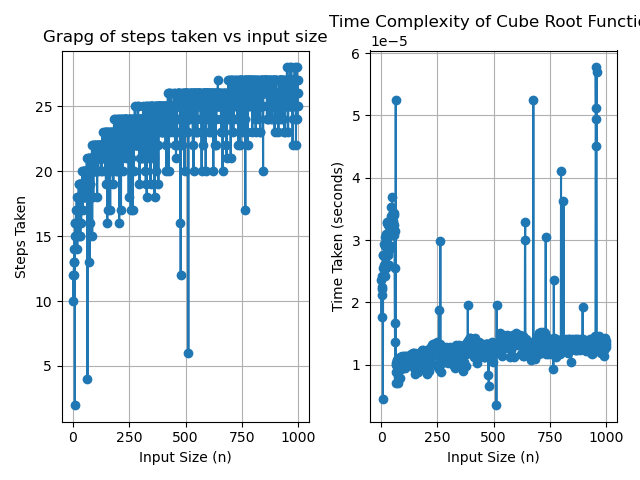
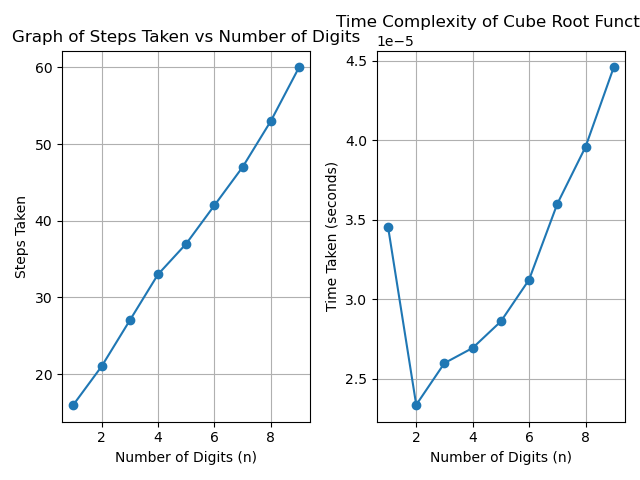
Enhance primality and cube root algorithms with step counting and performance measurement

diff --git a/day5/cube_root/main.py b/day5/cube_root/main.py
@@ -1,59 +1,63 @@
-# day5/cube_root/cube_root.py
+# day5/cube_root/main.py
 
 import time
+import random
 import matplotlib.pyplot as plt
 
 def cube_root(n):
-    low = 0 # lowest number of the range
-    high = n # highest number of the range
-    if n < 0: # deal with negative case
-        low, high = n , 0 # switch the high and low
-    epsilon = 1e-3 # minimum allowed deviation
-    count = 0 # number of steps taken
+    low = 0  # lowest number of the range
+    high = n  # highest number of the range
+    if n < 0:  # deal with negative case
+        low, high = n, 0  # switch the high and low
+    epsilon = 1e-3  # minimum allowed deviation
+    count = 0  # number of steps taken
 
     # Binary search for cube root
     while True:
-        count+=1
-        mid = (low + high) / 2 # midpoint of the range
-        mid_cubed = mid ** 3 # cube of the midpoint
+        count += 1
+        mid = (low + high) / 2  # midpoint of the range
+        mid_cubed = mid ** 3  # cube of the midpoint
 
-        if abs(mid_cubed - n) < epsilon: # check if the deviation of the cube is within the allowed 
+        if abs(mid_cubed - n) < epsilon:  # check if the deviation of the cube is within the allowed
             break
-        elif mid_cubed < n: # check if guessed answer is less the proper answer
-            low = mid # assign the new low to be the midpoint
-        else: #  check if guessed answer is greater the proper answer
-            high = mid # assign the new hign to be the midpoint
-    return count # return the number of steps
+        elif mid_cubed < n:  # check if guessed answer is less than the proper answer
+            low = mid  # assign the new low to be the midpoint
+        else:  # check if guessed answer is greater than the proper answer
+            high = mid  # assign the new high to be the midpoint
+    return count  # return the number of steps
 
-def measure_step_time(n): # return the steps and time taken to find the cube root
+def measure_step_time(n):  # return the steps and time taken to find the cube root
     start_time = time.time()
     step = cube_root(n)
     end_time = time.time()
     return step, end_time - start_time
 
 
-   
 if __name__ == "__main__":
 
-    input_sizes = [i for i in range(1, 1000)] # input sizes from 1 to 1000
+    max_digits = 9  # You can set this to any maximum number of digits
+    input_sizes = []
     steps, times = [], []
-    for i in range(1, 1000):
-        steps.append(measure_step_time(i)[0]) # measure the steps taken
-        times.append(measure_step_time(i)[1]) # measure the time taken
 
+    for digits in range(1, max_digits + 1):  # Loop through different number of digits
+        number = 10**digits  # Generate random number with 'digits' digits
+        step, time_taken = measure_step_time(number)
+        input_sizes.append(digits)  # Record the number of digits
+        steps.append(step)  # Measure the steps taken
+        times.append(time_taken)  # Measure the time taken
 
     # Plotting the result
     plt.subplot(1, 2, 1)
     plt.plot(input_sizes, steps, marker='o')
-    plt.xlabel('Input Size (n)')
+    plt.xlabel('Number of Digits (n)')
     plt.ylabel('Steps Taken')
-    plt.title('Grapg of steps taken vs input size')
+    plt.title('Graph of Steps Taken vs Number of Digits')
     plt.grid(True)
 
     # Plotting the time complexity
     plt.subplot(1, 2, 2)
     plt.plot(input_sizes, times, label='Time Complexity O(log n)', marker='o')
-    plt.xlabel('Input Size (n)')
+    plt.xlabel('Number of Digits (n)')
     plt.ylabel('Time Taken (seconds)')
     plt.title('Time Complexity of Cube Root Function')
     plt.grid(True)

diff --git a/day5/primality/main.py b/day5/primality/main.py
@@ -1,28 +1,60 @@
 # day5/primality/main.py
 
+import time
+import random
+import matplotlib.pyplot as plt
 
-primes = set() # using set to avoid duplicates
+# Primality Check Function with Step Counting
+primes = set()  # using set to avoid duplicates
 
 def is_prime(n):
-    if n <= 1: # numbers less than or equal to 1 are not prime
-        return None
-    for i in range(2, int(n**0.5) + 1): # check for factors up to the square root of n to avoid unnecessary multiplications. For example, n = 100, 2 * 50 == 50 * 2.
-        if n % i == 0: # check for divisibility
-            return None
-    return n
+    steps = 0  # Initialize step count
+    if n <= 1:  # numbers less than or equal to 1 are not prime
+        return None, steps
+    for i in range(2, int(n**0.5) + 1):  # check for factors up to the square root of n
+        steps += 1  # Increment step for each division attempt
+        if n % i == 0:  # check for divisibility
+            return None, steps
+    return n, steps  # Return the prime number and the step count
 
+# Measure the primality and execution time
+def measure_primality_time_and_steps(digits):
+    random_number = 10**digits
+    start_time = time.time()
+    _, steps_taken = is_prime(random_number)  # Get steps taken to check primality
+    end_time = time.time()
+    time_taken = end_time - start_time
+    return steps_taken, time_taken
 
-count = 0
-for i in range(2, 1000000):
-    low, high = i, 1000000 - i # get the pair of numbers where low + high = 1000000 to minimize the number of steps, kind of like a binary search
-    if i == 1000000 // 2: # since we are checking pairs, we can only search half of the numbers
-        break 
-    if is_prime(low): # check if the low number is prime
-        primes.add(low)
-    if is_prime(high): # check if the high number is prime
-        primes.add(high)
-    count+=1
+# Main logic for collecting data and plotting
+max_digits = 100  # Maximum number of digits for generating numbers
+input_sizes = []
+steps, times = [], []
 
+for digits in range(1, max_digits + 1):  # Loop through different number of digits
+    step, time_taken = measure_primality_time_and_steps(digits)
+    input_sizes.append(digits)  # Record the number of digits
+    steps.append(step)  # Record the steps taken
+    times.append(time_taken)  # Record the time taken
 
-print(len(primes))
-print(count)
+# Plotting the results
+plt.figure(figsize=(14, 6))
+
+# Plot 1: Number of steps taken vs. number of digits
+plt.subplot(1, 2, 1)
+plt.plot(input_sizes, steps, marker='o')
+plt.xlabel('Number of Digits (n)')
+plt.ylabel('Steps Taken')
+plt.title('Steps Taken vs Number of Digits')
+plt.grid(True)
+
+# Plot 2: Time taken vs. number of digits
+plt.subplot(1, 2, 2)
+plt.plot(input_sizes, times, marker='o', label='Time Complexity')
+plt.xlabel('Number of Digits (n)')
+plt.ylabel('Time Taken (seconds)')
+plt.title('Time Taken for Primality Check vs Number of Digits')
+plt.grid(True)
+
+plt.tight_layout()
+plt.savefig('day5/primality/docs/primality_steps_time.png')
